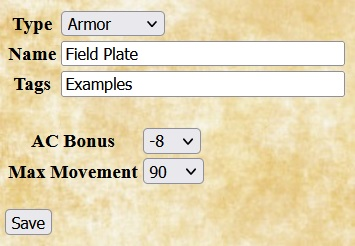
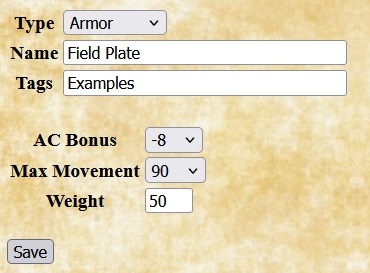
Add weight to homebrew menu for armor and shields. Add doc for homebrew shields.

diff --git a/plugins/homebrew-osric.html b/plugins/homebrew-osric.html
@@ -64,8 +64,8 @@ below show only the beginning portion of longer values entered into text boxes.
 </td><td>
 <p>
 For homebrew armors, Quilvyn displays fields for entering the improvement to
-armor class gained by using the armor and the maximum movement allowed when
-wearing it.
+armor class gained by using the armor, the maximum movement allowed when
+wearing it, and its weight in pounds.
 </p><p>
 The example shown gives the values for field plate, as discussed in the
 equipment section of the OSRIC rules. It adds -8 to the wearer's armor class
@@ -170,6 +170,18 @@ Lizard Man race from the Monsters section of the OSRIC rules. Features for
 this race are Natural Swimmer, Natural Weapons, Slow, Tough Hide, and Lizard
 Man Ability Adjustment. The corresponding feature entries for the first two of
 these are <a href="#feature">shown above</a>.
+</p>
+</td></tr>
+
+<tr><td colspan="2"><hr/></td></tr>
+<tr><td>
+<a name="shield"><h2>Shields</h2></a>
+<img src='../Images/hbos-shield.jpg' alt='Homebrew Shield'/>
+</td><td>
+<p>
+For homebrew shields, Quilvyn displays fields that allow you to enter the
+shield's effect on armor class and its weight. The example shows the entry for
+a shield made from the scales of a dragon.
 </p>
 </td></tr>
 

diff --git a/plugins/OSRIC.js b/plugins/OSRIC.js
@@ -69,7 +69,7 @@ function OSRIC(edition) {
 
 }
 
-OSRIC.VERSION = '2.4.1.0';
+OSRIC.VERSION = '2.4.1.1';
 
 /* List of choices that can be expanded by house rules. */
 OSRIC.CHOICES = [
@@ -3630,7 +3630,8 @@ OSRIC.choiceEditorElements = function(rules, type) {
     result.push(
       ['AC', 'AC Bonus', 'select-one',
        [0, -1, -2, -3, -4, -5, -6, -7, -8, -9, -10]],
-      ['Move', 'Max Movement', 'select-one', [120, 90, 60]]
+      ['Move', 'Max Movement', 'select-one', [120, 90, 60]],
+      ['Weight', 'Weight', 'text', [3]]
     );
   else if(type == 'Class')
     result.push(
@@ -3666,7 +3667,8 @@ OSRIC.choiceEditorElements = function(rules, type) {
   else if(type == 'Shield')
     result.push(
       ['AC', 'AC Bonus', 'select-one',
-       [0, -1, -2, -3, -4, -5, -6, -7, -8, -9, -10]]
+       [0, -1, -2, -3, -4, -5, -6, -7, -8, -9, -10]],
+      ['Weight', 'Weight', 'text', [3]]
     );
   else if(type == 'Spell')
     result.push(
